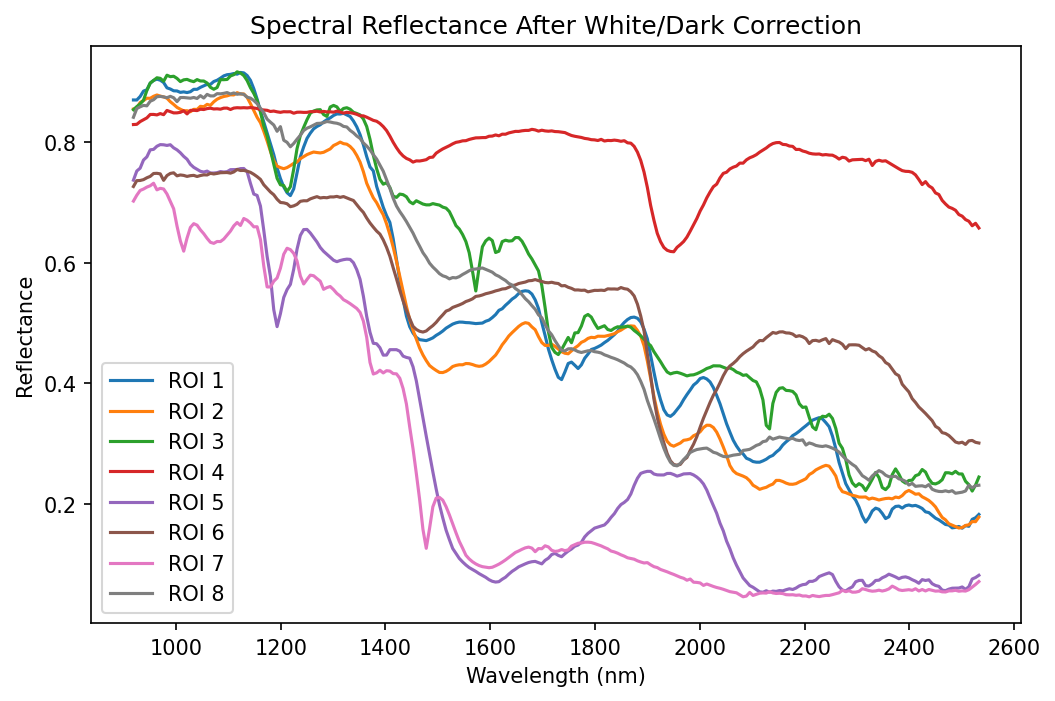
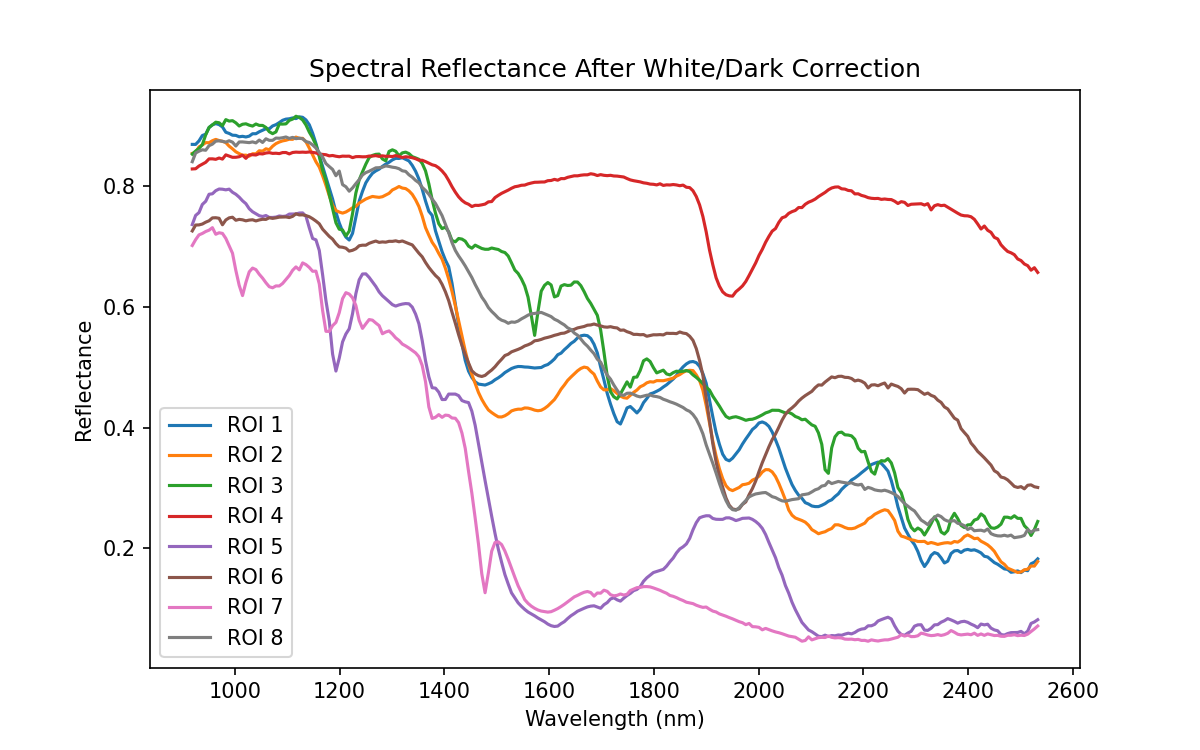
Improve GitHub result visualization

diff --git a/White_Powder_IR.py b/White_Powder_IR.py
@@ -70,9 +70,8 @@ for i, ((x1, x2, y1, y2), color) in enumerate(zip(rois, colors), 1):
 
 # Visualize ROI locations and click a point to show its reflectance
 plt.rcParams['figure.dpi'] = 150
-fig, ax = plt.subplots()
+fig, ax = plt.subplots(figsize=(8, 5))
 ax.imshow(RGB2)
-ax.set_title("Click a point to plot its reflectance")
 ax.axis("off")
 spectrum_fig, spectrum_ax = plt.subplots(figsize=(8, 5))
 spectrum_ax.set_xlabel("Wavelength (nm)")
@@ -90,7 +89,8 @@ def show_spectrum(event):
         spectrum_fig.canvas.draw_idle()
 
 fig.canvas.mpl_connect("button_press_event", show_spectrum)
-fig.savefig("Result/03_roi_visualization.png", dpi=150, bbox_inches="tight")
+fig.savefig("Result/03_roi_visualization.png", dpi=150)
+ax.set_title("Click a point to plot its reflectance")
 plt.show()
 
 # Plot spectral signatures from all ROIs
@@ -101,7 +101,7 @@ plt.xlabel("Wavelength (nm)")
 plt.ylabel("Reflectance")
 plt.title("Spectral Reflectance After White/Dark Correction")
 plt.legend()
-plt.savefig("Result/05_camera_spectra.png", dpi=150, bbox_inches="tight")
+plt.savefig("Result/05_camera_spectra.png", dpi=150)
 plt.show()
 
 # ============================================================================

diff --git a/README.md b/README.md
@@ -10,8 +10,8 @@ pixel-spectrum inspection, and false-color wavelength visualization.
 
 <table>
 <tr>
-<td><img src="Result/03_roi_visualization.png" alt="ROI visualization"></td>
-<td><img src="Result/05_camera_spectra.png" alt="Reflectance spectra"></td>
+<td><img src="Result/03_roi_visualization.png" alt="ROI visualization" width="100%"></td>
+<td><img src="Result/05_camera_spectra.png" alt="Reflectance spectra" width="100%"></td>
 </tr>
 </table>
 
